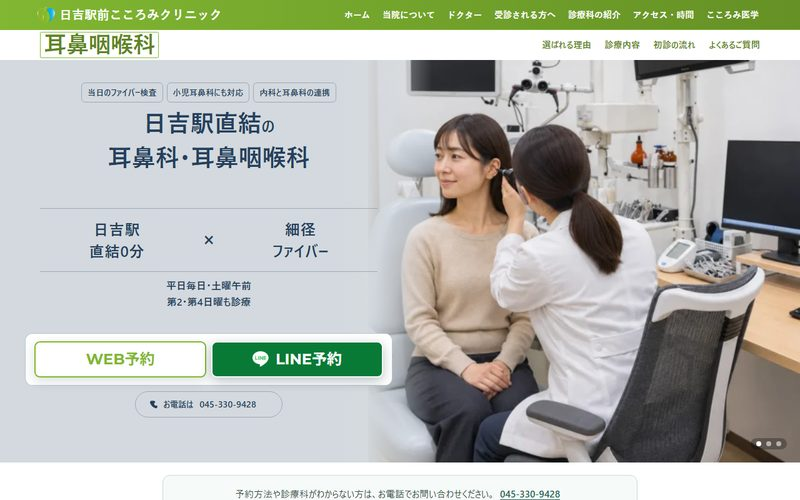
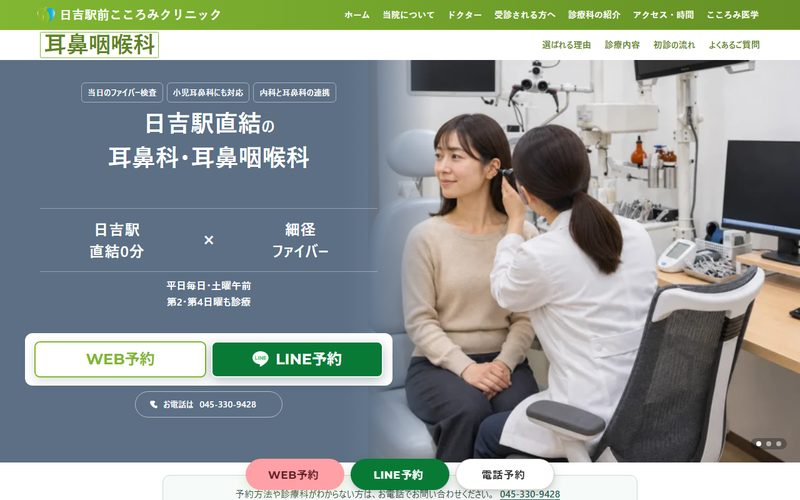
fix: うすいグレー・うすいネイビーをグレー・ネイビーより少しうすい色に（v0.14.0）
6 うすいグレー #EDEDEE → #9EA2A5（4のグレーを白で36%薄く・文字は濃いグレー #2B3036）
7 うすいネイビー #D3D9DE → #5C6F85（5のネイビーを白で25%薄く・文字は白）
読み込み版番号は ?v=0.14.0 に。

diff --git a/fv-patterns/index.html b/fv-patterns/index.html
@@ -4,7 +4,7 @@
 <meta charset="utf-8">
 <meta name="viewport" content="width=device-width, initial-scale=1">
 <meta name="robots" content="noindex,nofollow">
-<meta name="version" content="0.13.0">
+<meta name="version" content="0.14.0">
 <title>日吉 最初の画面の背景7案</title>
 <style>
 :root{--bg:#faf8f6;--card:#fff;--ink:#1f1d1b;--sub:#625b55;--line:#e6e0d9}
@@ -120,8 +120,8 @@ a:focus-visible{outline:3px solid #6a9bff;outline-offset:2px}
 </section>
 
 <section class="pat" aria-labelledby="p6-h">
-<div class="pat-h"><span class="no">6</span><h2 id="p6-h">うすいグレー（追加）</h2><span class="sw"><i style="background:#EDEDEE"></i><code>#EDEDEE</code>　文字 <i style="background:#33393F"></i><code>#33393F</code></span></div>
-<p>4のグレー <code>#686D72</code> を白で薄めた色（12%）です。文字は②で使った濃いグレー。色味のない、いちばん中立的な背景で、写真の色はそのまま出ます。</p>
+<div class="pat-h"><span class="no">6</span><h2 id="p6-h">うすいグレー（追加）</h2><span class="sw"><i style="background:#9EA2A5"></i><code>#9EA2A5</code>　文字 <i style="background:#2B3036"></i><code>#2B3036</code></span></div>
+<p>4のグレー <code>#686D72</code> より少しうすいグレーです（白で36%薄めた色）。写真の色はそのまま出ます。4より明るいグレーでは白い文字が読みにくくなる（読みやすさの基準に届かない）ため、文字は濃いグレー（案2で使った色）にしました。</p>
 <div class="shots">
 <a href="top/?p=6"><img src="img/p6-top.jpg" width="800" height="500" loading="lazy" alt="パターン6のトップの最初の画面"><span>トップ</span></a>
 <a href="general/?p=6"><img src="img/p6-general.jpg" width="800" height="500" loading="lazy" alt="パターン6の総合内科の最初の画面"><span>総合内科</span></a>
@@ -131,8 +131,8 @@ a:focus-visible{outline:3px solid #6a9bff;outline-offset:2px}
 </section>
 
 <section class="pat" aria-labelledby="p7-h">
-<div class="pat-h"><span class="no">7</span><h2 id="p7-h">うすいネイビー（追加）</h2><span class="sw"><i style="background:#D3D9DE"></i><code>#D3D9DE</code>　文字 <i style="background:#253F5C"></i><code>#253F5C</code></span></div>
-<p>5のネイビー <code>#253F5C</code> を白で薄めた色（20%）です。文字はネイビー。1のブルーグレーよりひと段階濃く、紺の気配がはっきり出ます。</p>
+<div class="pat-h"><span class="no">7</span><h2 id="p7-h">うすいネイビー（追加）</h2><span class="sw"><i style="background:#5C6F85"></i><code>#5C6F85</code>　文字 白</span></div>
+<p>5のネイビー <code>#253F5C</code> より少しうすいネイビーです（白で25%薄めた色）。文字は5と同じ白。5より軽く、やわらかい印象になります。</p>
 <div class="shots">
 <a href="top/?p=7"><img src="img/p7-top.jpg" width="800" height="500" loading="lazy" alt="パターン7のトップの最初の画面"><span>トップ</span></a>
 <a href="general/?p=7"><img src="img/p7-general.jpg" width="800" height="500" loading="lazy" alt="パターン7の総合内科の最初の画面"><span>総合内科</span></a>
@@ -145,7 +145,7 @@ a:focus-visible{outline:3px solid #6a9bff;outline-offset:2px}
 <h2 id="note-h">全パターン共通のこと</h2>
 <ul>
 <li><b>変えたのは「ヘッダー」と「最初の画面」だけ</b>です。それより下（お知らせ・選ばれる理由・お問い合わせ・フッターなど）は6月の色のままです</li>
-<li>最初の画面のボタン（WEB予約・LINE予約）、トップの診療科の札、写真の上の名札は6月のままです。ただし明るい背景（1〜3・6・7）では、白いWEB予約ボタンが背景に沈むので、その科の6月の色の枠を付けました。トップの札にも細い線を付けています</li>
+<li>最初の画面のボタン（WEB予約・LINE予約）、トップの診療科の札、写真の上の名札は6月のままです。ただし明るい背景（1〜3・6）では、白いWEB予約ボタンが背景に沈むので、その科の6月の色の枠を付けました。トップの札にも細い線を付けています</li>
 <li>心療内科・精神科のページは、最初の画面が「開始時期未定」のお知らせの下にあります（ページの作りがそうなっているため）</li>
 <li>写真の中の色は変わりません（4だけは写真の色味をおさえています）</li>
 </ul>

diff --git a/fv-patterns/checkups/index.html b/fv-patterns/checkups/index.html
@@ -3,10 +3,10 @@
 <html lang="ja">
   <head prefix="og: http://ogp.me/ns# fb: http://ogp.me/ns/fb# website: http://ogp.me/ns/website#">
 <meta name="robots" content="noindex,nofollow">
-<script>(function(){var h=document.documentElement,q=(location.search.match(/[?&]p=([1-7])\b/)||[])[1],s=null;try{s=localStorage.getItem("jFvPat")}catch(e){}var m=q||s||"1";if(!/^[1-7]$/.test(m))m="1";if(q){try{localStorage.setItem("jFvPat",m)}catch(e){}}h.classList.add("fvp","fv"+m,/^[12367]$/.test(m)?"fvL":"fvD")})();</script>
+<script>(function(){var h=document.documentElement,q=(location.search.match(/[?&]p=([1-7])\b/)||[])[1],s=null;try{s=localStorage.getItem("jFvPat")}catch(e){}var m=q||s||"1";if(!/^[1-7]$/.test(m))m="1";if(q){try{localStorage.setItem("jFvPat",m)}catch(e){}}h.classList.add("fvp","fv"+m,/^[1236]$/.test(m)?"fvL":"fvD")})();</script>
 
-<link rel="stylesheet" href="../assets/sample.css?v=0.13.0">
-<link rel="stylesheet" href="../assets/fvp.css?v=0.13.0">
+<link rel="stylesheet" href="../assets/sample.css?v=0.14.0">
+<link rel="stylesheet" href="../assets/fvp.css?v=0.14.0">
 
 
 
@@ -1674,7 +1674,7 @@ margin-block-end: 24px;
 var e="script#wp-emoji-settings",t=document.querySelector(e);if(!(t instanceof HTMLScriptElement))throw new Error("Element missing: "+e);const r=JSON.parse(t.text),s=(window._wpemojiSettings=r,"wpEmojiSettingsSupports"),o=["flag","emoji"];function i(e){try{var t={supportTests:e,timestamp:(new Date).valueOf()};sessionStorage.setItem(s,JSON.stringify(t))}catch(e){}}function c(e,t,n){e.clearRect(0,0,e.canvas.width,e.canvas.height),e.fillText(t,0,0);t=new Uint32Array(e.getImageData(0,0,e.canvas.width,e.canvas.height).data);e.clearRect(0,0,e.canvas.width,e.canvas.height),e.fillText(n,0,0);const r=new Uint32Array(e.getImageData(0,0,e.canvas.width,e.canvas.height).data);return t.every((e,t)=>e===r[t])}function p(e,t){e.clearRect(0,0,e.canvas.width,e.canvas.height),e.fillText(t,0,0);var n=e.getImageData(16,16,1,1);for(let e=0;e<n.data.length;e++)if(0!==n.data[e])return!1;return!0}function u(e,t,n,r){switch(t){case"flag":return n(e,"\ud83c\udff3\ufe0f\u200d\u26a7\ufe0f","\ud83c\udff3\ufe0f\u200b\u26a7\ufe0f")?!1:!n(e,"\ud83c\udde8\ud83c\uddf6","\ud83c\udde8\u200b\ud83c\uddf6")&&!n(e,"\ud83c\udff4\udb40\udc67\udb40\udc62\udb40\udc65\udb40\udc6e\udb40\udc67\udb40\udc7f","\ud83c\udff4\u200b\udb40\udc67\u200b\udb40\udc62\u200b\udb40\udc65\u200b\udb40\udc6e\u200b\udb40\udc67\u200b\udb40\udc7f");case"emoji":return!r(e,"\ud83e\u1fac8")}return!1}function f(e,t,n,r){let a;const s=(a="undefined"!=typeof WorkerGlobalScope&&self instanceof WorkerGlobalScope?new OffscreenCanvas(300,150):document.createElement("canvas")).getContext("2d",{willReadFrequently:!0}),o=(s.textBaseline="top",s.font="600 32px Arial",{});return e.forEach(e=>{o[e]=t(s,e,n,r)}),o}function a(e){var t=document.createElement("script");t.src=e,t.defer=!0,document.head.appendChild(t)}r.supports={everything:!0,everythingExceptFlag:!0},new Promise(t=>{let n=function(){try{var e=JSON.parse(sessionStorage.getItem(s));if("object"==typeof e&&"number"==typeof e.timestamp&&(new Date).valueOf()<e.timestamp+604800&&"object"==typeof e.supportTests)return e.supportTests}catch(e){}return null}();if(!n){if("undefined"!=typeof Worker&&"undefined"!=typeof OffscreenCanvas&&"undefined"!=typeof URL&&URL.createObjectURL&&"undefined"!=typeof Blob)try{var e="postMessage("+f.toString()+"("+[JSON.stringify(o),u.toString(),c.toString(),p.toString()].join(",")+"));",r=new Blob([e],{type:"text/javascript"});const a=new Worker(URL.createObjectURL(r),{name:"wpTestEmojiSupports"});return void(a.onmessage=e=>{i(n=e.data),a.terminate(),t(n)})}catch(e){}i(n=f(o,u,c,p))}t(n)}).then(e=>{for(const n in e)r.supports[n]=e[n],r.supports.everything=r.supports.everything&&r.supports[n],"flag"!==n&&(r.supports.everythingExceptFlag=r.supports.everythingExceptFlag&&r.supports[n]);var t;r.supports.everythingExceptFlag=r.supports.everythingExceptFlag&&!r.supports.flag,r.supports.everything||((t=r.source||{}).concatemoji?a(t.concatemoji):t.wpemoji&&t.twemoji&&(a(t.twemoji),a(t.wpemoji)))});
 //# sourceURL=https://hiyoshi-cocoromi-cl.jp/wp-includes/js/wp-emoji-loader.min.js
 </script>
-  <script src="../assets/fvp.js?v=0.13.0" data-page="checkups"></script>
+  <script src="../assets/fvp.js?v=0.14.0" data-page="checkups"></script>
 </body>
 </html>
 

diff --git a/fv-patterns/general/index.html b/fv-patterns/general/index.html
@@ -3,10 +3,10 @@
 <html lang="ja">
   <head prefix="og: http://ogp.me/ns# fb: http://ogp.me/ns/fb# website: http://ogp.me/ns/website#">
 <meta name="robots" content="noindex,nofollow">
-<script>(function(){var h=document.documentElement,q=(location.search.match(/[?&]p=([1-7])\b/)||[])[1],s=null;try{s=localStorage.getItem("jFvPat")}catch(e){}var m=q||s||"1";if(!/^[1-7]$/.test(m))m="1";if(q){try{localStorage.setItem("jFvPat",m)}catch(e){}}h.classList.add("fvp","fv"+m,/^[12367]$/.test(m)?"fvL":"fvD")})();</script>
+<script>(function(){var h=document.documentElement,q=(location.search.match(/[?&]p=([1-7])\b/)||[])[1],s=null;try{s=localStorage.getItem("jFvPat")}catch(e){}var m=q||s||"1";if(!/^[1-7]$/.test(m))m="1";if(q){try{localStorage.setItem("jFvPat",m)}catch(e){}}h.classList.add("fvp","fv"+m,/^[1236]$/.test(m)?"fvL":"fvD")})();</script>
 
-<link rel="stylesheet" href="../assets/sample.css?v=0.13.0">
-<link rel="stylesheet" href="../assets/fvp.css?v=0.13.0">
+<link rel="stylesheet" href="../assets/sample.css?v=0.14.0">
+<link rel="stylesheet" href="../assets/fvp.css?v=0.14.0">
 
 
 
@@ -1950,7 +1950,7 @@ margin-block-end: 24px;
 var e="script#wp-emoji-settings",t=document.querySelector(e);if(!(t instanceof HTMLScriptElement))throw new Error("Element missing: "+e);const r=JSON.parse(t.text),s=(window._wpemojiSettings=r,"wpEmojiSettingsSupports"),o=["flag","emoji"];function i(e){try{var t={supportTests:e,timestamp:(new Date).valueOf()};sessionStorage.setItem(s,JSON.stringify(t))}catch(e){}}function c(e,t,n){e.clearRect(0,0,e.canvas.width,e.canvas.height),e.fillText(t,0,0);t=new Uint32Array(e.getImageData(0,0,e.canvas.width,e.canvas.height).data);e.clearRect(0,0,e.canvas.width,e.canvas.height),e.fillText(n,0,0);const r=new Uint32Array(e.getImageData(0,0,e.canvas.width,e.canvas.height).data);return t.every((e,t)=>e===r[t])}function p(e,t){e.clearRect(0,0,e.canvas.width,e.canvas.height),e.fillText(t,0,0);var n=e.getImageData(16,16,1,1);for(let e=0;e<n.data.length;e++)if(0!==n.data[e])return!1;return!0}function u(e,t,n,r){switch(t){case"flag":return n(e,"\ud83c\udff3\ufe0f\u200d\u26a7\ufe0f","\ud83c\udff3\ufe0f\u200b\u26a7\ufe0f")?!1:!n(e,"\ud83c\udde8\ud83c\uddf6","\ud83c\udde8\u200b\ud83c\uddf6")&&!n(e,"\ud83c\udff4\udb40\udc67\udb40\udc62\udb40\udc65\udb40\udc6e\udb40\udc67\udb40\udc7f","\ud83c\udff4\u200b\udb40\udc67\u200b\udb40\udc62\u200b\udb40\udc65\u200b\udb40\udc6e\u200b\udb40\udc67\u200b\udb40\udc7f");case"emoji":return!r(e,"\ud83e\u1fac8")}return!1}function f(e,t,n,r){let a;const s=(a="undefined"!=typeof WorkerGlobalScope&&self instanceof WorkerGlobalScope?new OffscreenCanvas(300,150):document.createElement("canvas")).getContext("2d",{willReadFrequently:!0}),o=(s.textBaseline="top",s.font="600 32px Arial",{});return e.forEach(e=>{o[e]=t(s,e,n,r)}),o}function a(e){var t=document.createElement("script");t.src=e,t.defer=!0,document.head.appendChild(t)}r.supports={everything:!0,everythingExceptFlag:!0},new Promise(t=>{let n=function(){try{var e=JSON.parse(sessionStorage.getItem(s));if("object"==typeof e&&"number"==typeof e.timestamp&&(new Date).valueOf()<e.timestamp+604800&&"object"==typeof e.supportTests)return e.supportTests}catch(e){}return null}();if(!n){if("undefined"!=typeof Worker&&"undefined"!=typeof OffscreenCanvas&&"undefined"!=typeof URL&&URL.createObjectURL&&"undefined"!=typeof Blob)try{var e="postMessage("+f.toString()+"("+[JSON.stringify(o),u.toString(),c.toString(),p.toString()].join(",")+"));",r=new Blob([e],{type:"text/javascript"});const a=new Worker(URL.createObjectURL(r),{name:"wpTestEmojiSupports"});return void(a.onmessage=e=>{i(n=e.data),a.terminate(),t(n)})}catch(e){}i(n=f(o,u,c,p))}t(n)}).then(e=>{for(const n in e)r.supports[n]=e[n],r.supports.everything=r.supports.everything&&r.supports[n],"flag"!==n&&(r.supports.everythingExceptFlag=r.supports.everythingExceptFlag&&r.supports[n]);var t;r.supports.everythingExceptFlag=r.supports.everythingExceptFlag&&!r.supports.flag,r.supports.everything||((t=r.source||{}).concatemoji?a(t.concatemoji):t.wpemoji&&t.twemoji&&(a(t.twemoji),a(t.wpemoji)))});
 //# sourceURL=https://hiyoshi-cocoromi-cl.jp/wp-includes/js/wp-emoji-loader.min.js
 </script>
-  <script src="../assets/fvp.js?v=0.13.0" data-page="general"></script>
+  <script src="../assets/fvp.js?v=0.14.0" data-page="general"></script>
 </body>
 </html>
 

diff --git a/fv-patterns/gastro/index.html b/fv-patterns/gastro/index.html
@@ -3,10 +3,10 @@
 <html lang="ja">
   <head prefix="og: http://ogp.me/ns# fb: http://ogp.me/ns/fb# website: http://ogp.me/ns/website#">
 <meta name="robots" content="noindex,nofollow">
-<script>(function(){var h=document.documentElement,q=(location.search.match(/[?&]p=([1-7])\b/)||[])[1],s=null;try{s=localStorage.getItem("jFvPat")}catch(e){}var m=q||s||"1";if(!/^[1-7]$/.test(m))m="1";if(q){try{localStorage.setItem("jFvPat",m)}catch(e){}}h.classList.add("fvp","fv"+m,/^[12367]$/.test(m)?"fvL":"fvD")})();</script>
+<script>(function(){var h=document.documentElement,q=(location.search.match(/[?&]p=([1-7])\b/)||[])[1],s=null;try{s=localStorage.getItem("jFvPat")}catch(e){}var m=q||s||"1";if(!/^[1-7]$/.test(m))m="1";if(q){try{localStorage.setItem("jFvPat",m)}catch(e){}}h.classList.add("fvp","fv"+m,/^[1236]$/.test(m)?"fvL":"fvD")})();</script>
 
-<link rel="stylesheet" href="../assets/sample.css?v=0.13.0">
-<link rel="stylesheet" href="../assets/fvp.css?v=0.13.0">
+<link rel="stylesheet" href="../assets/sample.css?v=0.14.0">
+<link rel="stylesheet" href="../assets/fvp.css?v=0.14.0">
 
 
 
@@ -2147,7 +2147,7 @@ margin-block-end: 24px;
 var e="script#wp-emoji-settings",t=document.querySelector(e);if(!(t instanceof HTMLScriptElement))throw new Error("Element missing: "+e);const r=JSON.parse(t.text),s=(window._wpemojiSettings=r,"wpEmojiSettingsSupports"),o=["flag","emoji"];function i(e){try{var t={supportTests:e,timestamp:(new Date).valueOf()};sessionStorage.setItem(s,JSON.stringify(t))}catch(e){}}function c(e,t,n){e.clearRect(0,0,e.canvas.width,e.canvas.height),e.fillText(t,0,0);t=new Uint32Array(e.getImageData(0,0,e.canvas.width,e.canvas.height).data);e.clearRect(0,0,e.canvas.width,e.canvas.height),e.fillText(n,0,0);const r=new Uint32Array(e.getImageData(0,0,e.canvas.width,e.canvas.height).data);return t.every((e,t)=>e===r[t])}function p(e,t){e.clearRect(0,0,e.canvas.width,e.canvas.height),e.fillText(t,0,0);var n=e.getImageData(16,16,1,1);for(let e=0;e<n.data.length;e++)if(0!==n.data[e])return!1;return!0}function u(e,t,n,r){switch(t){case"flag":return n(e,"\ud83c\udff3\ufe0f\u200d\u26a7\ufe0f","\ud83c\udff3\ufe0f\u200b\u26a7\ufe0f")?!1:!n(e,"\ud83c\udde8\ud83c\uddf6","\ud83c\udde8\u200b\ud83c\uddf6")&&!n(e,"\ud83c\udff4\udb40\udc67\udb40\udc62\udb40\udc65\udb40\udc6e\udb40\udc67\udb40\udc7f","\ud83c\udff4\u200b\udb40\udc67\u200b\udb40\udc62\u200b\udb40\udc65\u200b\udb40\udc6e\u200b\udb40\udc67\u200b\udb40\udc7f");case"emoji":return!r(e,"\ud83e\u1fac8")}return!1}function f(e,t,n,r){let a;const s=(a="undefined"!=typeof WorkerGlobalScope&&self instanceof WorkerGlobalScope?new OffscreenCanvas(300,150):document.createElement("canvas")).getContext("2d",{willReadFrequently:!0}),o=(s.textBaseline="top",s.font="600 32px Arial",{});return e.forEach(e=>{o[e]=t(s,e,n,r)}),o}function a(e){var t=document.createElement("script");t.src=e,t.defer=!0,document.head.appendChild(t)}r.supports={everything:!0,everythingExceptFlag:!0},new Promise(t=>{let n=function(){try{var e=JSON.parse(sessionStorage.getItem(s));if("object"==typeof e&&"number"==typeof e.timestamp&&(new Date).valueOf()<e.timestamp+604800&&"object"==typeof e.supportTests)return e.supportTests}catch(e){}return null}();if(!n){if("undefined"!=typeof Worker&&"undefined"!=typeof OffscreenCanvas&&"undefined"!=typeof URL&&URL.createObjectURL&&"undefined"!=typeof Blob)try{var e="postMessage("+f.toString()+"("+[JSON.stringify(o),u.toString(),c.toString(),p.toString()].join(",")+"));",r=new Blob([e],{type:"text/javascript"});const a=new Worker(URL.createObjectURL(r),{name:"wpTestEmojiSupports"});return void(a.onmessage=e=>{i(n=e.data),a.terminate(),t(n)})}catch(e){}i(n=f(o,u,c,p))}t(n)}).then(e=>{for(const n in e)r.supports[n]=e[n],r.supports.everything=r.supports.everything&&r.supports[n],"flag"!==n&&(r.supports.everythingExceptFlag=r.supports.everythingExceptFlag&&r.supports[n]);var t;r.supports.everythingExceptFlag=r.supports.everythingExceptFlag&&!r.supports.flag,r.supports.everything||((t=r.source||{}).concatemoji?a(t.concatemoji):t.wpemoji&&t.twemoji&&(a(t.twemoji),a(t.wpemoji)))});
 //# sourceURL=https://hiyoshi-cocoromi-cl.jp/wp-includes/js/wp-emoji-loader.min.js
 </script>
-  <script src="../assets/fvp.js?v=0.13.0" data-page="gastro"></script>
+  <script src="../assets/fvp.js?v=0.14.0" data-page="gastro"></script>
 </body>
 </html>
 

diff --git a/fv-patterns/mental/index.html b/fv-patterns/mental/index.html
@@ -3,10 +3,10 @@
 <html lang="ja">
   <head prefix="og: http://ogp.me/ns# fb: http://ogp.me/ns/fb# website: http://ogp.me/ns/website#">
 <meta name="robots" content="noindex,nofollow">
-<script>(function(){var h=document.documentElement,q=(location.search.match(/[?&]p=([1-7])\b/)||[])[1],s=null;try{s=localStorage.getItem("jFvPat")}catch(e){}var m=q||s||"1";if(!/^[1-7]$/.test(m))m="1";if(q){try{localStorage.setItem("jFvPat",m)}catch(e){}}h.classList.add("fvp","fv"+m,/^[12367]$/.test(m)?"fvL":"fvD")})();</script>
+<script>(function(){var h=document.documentElement,q=(location.search.match(/[?&]p=([1-7])\b/)||[])[1],s=null;try{s=localStorage.getItem("jFvPat")}catch(e){}var m=q||s||"1";if(!/^[1-7]$/.test(m))m="1";if(q){try{localStorage.setItem("jFvPat",m)}catch(e){}}h.classList.add("fvp","fv"+m,/^[1236]$/.test(m)?"fvL":"fvD")})();</script>
 
-<link rel="stylesheet" href="../assets/sample.css?v=0.13.0">
-<link rel="stylesheet" href="../assets/fvp.css?v=0.13.0">
+<link rel="stylesheet" href="../assets/sample.css?v=0.14.0">
+<link rel="stylesheet" href="../assets/fvp.css?v=0.14.0">
 
 
 
@@ -1375,7 +1375,7 @@ margin-block-end: 24px;
 var e="script#wp-emoji-settings",t=document.querySelector(e);if(!(t instanceof HTMLScriptElement))throw new Error("Element missing: "+e);const r=JSON.parse(t.text),s=(window._wpemojiSettings=r,"wpEmojiSettingsSupports"),o=["flag","emoji"];function i(e){try{var t={supportTests:e,timestamp:(new Date).valueOf()};sessionStorage.setItem(s,JSON.stringify(t))}catch(e){}}function c(e,t,n){e.clearRect(0,0,e.canvas.width,e.canvas.height),e.fillText(t,0,0);t=new Uint32Array(e.getImageData(0,0,e.canvas.width,e.canvas.height).data);e.clearRect(0,0,e.canvas.width,e.canvas.height),e.fillText(n,0,0);const r=new Uint32Array(e.getImageData(0,0,e.canvas.width,e.canvas.height).data);return t.every((e,t)=>e===r[t])}function p(e,t){e.clearRect(0,0,e.canvas.width,e.canvas.height),e.fillText(t,0,0);var n=e.getImageData(16,16,1,1);for(let e=0;e<n.data.length;e++)if(0!==n.data[e])return!1;return!0}function u(e,t,n,r){switch(t){case"flag":return n(e,"\ud83c\udff3\ufe0f\u200d\u26a7\ufe0f","\ud83c\udff3\ufe0f\u200b\u26a7\ufe0f")?!1:!n(e,"\ud83c\udde8\ud83c\uddf6","\ud83c\udde8\u200b\ud83c\uddf6")&&!n(e,"\ud83c\udff4\udb40\udc67\udb40\udc62\udb40\udc65\udb40\udc6e\udb40\udc67\udb40\udc7f","\ud83c\udff4\u200b\udb40\udc67\u200b\udb40\udc62\u200b\udb40\udc65\u200b\udb40\udc6e\u200b\udb40\udc67\u200b\udb40\udc7f");case"emoji":return!r(e,"\ud83e\u1fac8")}return!1}function f(e,t,n,r){let a;const s=(a="undefined"!=typeof WorkerGlobalScope&&self instanceof WorkerGlobalScope?new OffscreenCanvas(300,150):document.createElement("canvas")).getContext("2d",{willReadFrequently:!0}),o=(s.textBaseline="top",s.font="600 32px Arial",{});return e.forEach(e=>{o[e]=t(s,e,n,r)}),o}function a(e){var t=document.createElement("script");t.src=e,t.defer=!0,document.head.appendChild(t)}r.supports={everything:!0,everythingExceptFlag:!0},new Promise(t=>{let n=function(){try{var e=JSON.parse(sessionStorage.getItem(s));if("object"==typeof e&&"number"==typeof e.timestamp&&(new Date).valueOf()<e.timestamp+604800&&"object"==typeof e.supportTests)return e.supportTests}catch(e){}return null}();if(!n){if("undefined"!=typeof Worker&&"undefined"!=typeof OffscreenCanvas&&"undefined"!=typeof URL&&URL.createObjectURL&&"undefined"!=typeof Blob)try{var e="postMessage("+f.toString()+"("+[JSON.stringify(o),u.toString(),c.toString(),p.toString()].join(",")+"));",r=new Blob([e],{type:"text/javascript"});const a=new Worker(URL.createObjectURL(r),{name:"wpTestEmojiSupports"});return void(a.onmessage=e=>{i(n=e.data),a.terminate(),t(n)})}catch(e){}i(n=f(o,u,c,p))}t(n)}).then(e=>{for(const n in e)r.supports[n]=e[n],r.supports.everything=r.supports.everything&&r.supports[n],"flag"!==n&&(r.supports.everythingExceptFlag=r.supports.everythingExceptFlag&&r.supports[n]);var t;r.supports.everythingExceptFlag=r.supports.everythingExceptFlag&&!r.supports.flag,r.supports.everything||((t=r.source||{}).concatemoji?a(t.concatemoji):t.wpemoji&&t.twemoji&&(a(t.twemoji),a(t.wpemoji)))});
 //# sourceURL=https://hiyoshi-cocoromi-cl.jp/wp-includes/js/wp-emoji-loader.min.js
 </script>
-  <script src="../assets/fvp.js?v=0.13.0" data-page="mental"></script>
+  <script src="../assets/fvp.js?v=0.14.0" data-page="mental"></script>
 </body>
 </html>
 

diff --git a/fv-patterns/fever/index.html b/fv-patterns/fever/index.html
@@ -2,10 +2,10 @@
 <html lang="ja">
   <head prefix="og: http://ogp.me/ns# fb: http://ogp.me/ns/fb# website: http://ogp.me/ns/website#">
 <meta name="robots" content="noindex,nofollow">
-<script>(function(){var h=document.documentElement,q=(location.search.match(/[?&]p=([1-7])\b/)||[])[1],s=null;try{s=localStorage.getItem("jFvPat")}catch(e){}var m=q||s||"1";if(!/^[1-7]$/.test(m))m="1";if(q){try{localStorage.setItem("jFvPat",m)}catch(e){}}h.classList.add("fvp","fv"+m,/^[12367]$/.test(m)?"fvL":"fvD")})();</script>
+<script>(function(){var h=document.documentElement,q=(location.search.match(/[?&]p=([1-7])\b/)||[])[1],s=null;try{s=localStorage.getItem("jFvPat")}catch(e){}var m=q||s||"1";if(!/^[1-7]$/.test(m))m="1";if(q){try{localStorage.setItem("jFvPat",m)}catch(e){}}h.classList.add("fvp","fv"+m,/^[1236]$/.test(m)?"fvL":"fvD")})();</script>
 
-<link rel="stylesheet" href="../assets/sample.css?v=0.13.0">
-<link rel="stylesheet" href="../assets/fvp.css?v=0.13.0">
+<link rel="stylesheet" href="../assets/sample.css?v=0.14.0">
+<link rel="stylesheet" href="../assets/fvp.css?v=0.14.0">
 
 
 
@@ -1501,7 +1501,7 @@ margin-block-end: 24px;
 var e="script#wp-emoji-settings",t=document.querySelector(e);if(!(t instanceof HTMLScriptElement))throw new Error("Element missing: "+e);const r=JSON.parse(t.text),s=(window._wpemojiSettings=r,"wpEmojiSettingsSupports"),o=["flag","emoji"];function i(e){try{var t={supportTests:e,timestamp:(new Date).valueOf()};sessionStorage.setItem(s,JSON.stringify(t))}catch(e){}}function c(e,t,n){e.clearRect(0,0,e.canvas.width,e.canvas.height),e.fillText(t,0,0);t=new Uint32Array(e.getImageData(0,0,e.canvas.width,e.canvas.height).data);e.clearRect(0,0,e.canvas.width,e.canvas.height),e.fillText(n,0,0);const r=new Uint32Array(e.getImageData(0,0,e.canvas.width,e.canvas.height).data);return t.every((e,t)=>e===r[t])}function p(e,t){e.clearRect(0,0,e.canvas.width,e.canvas.height),e.fillText(t,0,0);var n=e.getImageData(16,16,1,1);for(let e=0;e<n.data.length;e++)if(0!==n.data[e])return!1;return!0}function u(e,t,n,r){switch(t){case"flag":return n(e,"\ud83c\udff3\ufe0f\u200d\u26a7\ufe0f","\ud83c\udff3\ufe0f\u200b\u26a7\ufe0f")?!1:!n(e,"\ud83c\udde8\ud83c\uddf6","\ud83c\udde8\u200b\ud83c\uddf6")&&!n(e,"\ud83c\udff4\udb40\udc67\udb40\udc62\udb40\udc65\udb40\udc6e\udb40\udc67\udb40\udc7f","\ud83c\udff4\u200b\udb40\udc67\u200b\udb40\udc62\u200b\udb40\udc65\u200b\udb40\udc6e\u200b\udb40\udc67\u200b\udb40\udc7f");case"emoji":return!r(e,"\ud83e\u1fac8")}return!1}function f(e,t,n,r){let a;const s=(a="undefined"!=typeof WorkerGlobalScope&&self instanceof WorkerGlobalScope?new OffscreenCanvas(300,150):document.createElement("canvas")).getContext("2d",{willReadFrequently:!0}),o=(s.textBaseline="top",s.font="600 32px Arial",{});return e.forEach(e=>{o[e]=t(s,e,n,r)}),o}function a(e){var t=document.createElement("script");t.src=e,t.defer=!0,document.head.appendChild(t)}r.supports={everything:!0,everythingExceptFlag:!0},new Promise(t=>{let n=function(){try{var e=JSON.parse(sessionStorage.getItem(s));if("object"==typeof e&&"number"==typeof e.timestamp&&(new Date).valueOf()<e.timestamp+604800&&"object"==typeof e.supportTests)return e.supportTests}catch(e){}return null}();if(!n){if("undefined"!=typeof Worker&&"undefined"!=typeof OffscreenCanvas&&"undefined"!=typeof URL&&URL.createObjectURL&&"undefined"!=typeof Blob)try{var e="postMessage("+f.toString()+"("+[JSON.stringify(o),u.toString(),c.toString(),p.toString()].join(",")+"));",r=new Blob([e],{type:"text/javascript"});const a=new Worker(URL.createObjectURL(r),{name:"wpTestEmojiSupports"});return void(a.onmessage=e=>{i(n=e.data),a.terminate(),t(n)})}catch(e){}i(n=f(o,u,c,p))}t(n)}).then(e=>{for(const n in e)r.supports[n]=e[n],r.supports.everything=r.supports.everything&&r.supports[n],"flag"!==n&&(r.supports.everythingExceptFlag=r.supports.everythingExceptFlag&&r.supports[n]);var t;r.supports.everythingExceptFlag=r.supports.everythingExceptFlag&&!r.supports.flag,r.supports.everything||((t=r.source||{}).concatemoji?a(t.concatemoji):t.wpemoji&&t.twemoji&&(a(t.twemoji),a(t.wpemoji)))});
 //# sourceURL=https://hiyoshi-cocoromi-cl.jp/wp-includes/js/wp-emoji-loader.min.js
 </script>
-  <script src="../assets/fvp.js?v=0.13.0" data-page="fever"></script>
+  <script src="../assets/fvp.js?v=0.14.0" data-page="fever"></script>
 </body>
 </html>
 

diff --git a/fv-patterns/derm/index.html b/fv-patterns/derm/index.html
@@ -3,10 +3,10 @@
 <html lang="ja">
   <head prefix="og: http://ogp.me/ns# fb: http://ogp.me/ns/fb# website: http://ogp.me/ns/website#">
 <meta name="robots" content="noindex,nofollow">
-<script>(function(){var h=document.documentElement,q=(location.search.match(/[?&]p=([1-7])\b/)||[])[1],s=null;try{s=localStorage.getItem("jFvPat")}catch(e){}var m=q||s||"1";if(!/^[1-7]$/.test(m))m="1";if(q){try{localStorage.setItem("jFvPat",m)}catch(e){}}h.classList.add("fvp","fv"+m,/^[12367]$/.test(m)?"fvL":"fvD")})();</script>
+<script>(function(){var h=document.documentElement,q=(location.search.match(/[?&]p=([1-7])\b/)||[])[1],s=null;try{s=localStorage.getItem("jFvPat")}catch(e){}var m=q||s||"1";if(!/^[1-7]$/.test(m))m="1";if(q){try{localStorage.setItem("jFvPat",m)}catch(e){}}h.classList.add("fvp","fv"+m,/^[1236]$/.test(m)?"fvL":"fvD")})();</script>
 
-<link rel="stylesheet" href="../assets/sample.css?v=0.13.0">
-<link rel="stylesheet" href="../assets/fvp.css?v=0.13.0">
+<link rel="stylesheet" href="../assets/sample.css?v=0.14.0">
+<link rel="stylesheet" href="../assets/fvp.css?v=0.14.0">
 
 
 
@@ -1524,7 +1524,7 @@ margin-block-end: 24px;
 var e="script#wp-emoji-settings",t=document.querySelector(e);if(!(t instanceof HTMLScriptElement))throw new Error("Element missing: "+e);const r=JSON.parse(t.text),s=(window._wpemojiSettings=r,"wpEmojiSettingsSupports"),o=["flag","emoji"];function i(e){try{var t={supportTests:e,timestamp:(new Date).valueOf()};sessionStorage.setItem(s,JSON.stringify(t))}catch(e){}}function c(e,t,n){e.clearRect(0,0,e.canvas.width,e.canvas.height),e.fillText(t,0,0);t=new Uint32Array(e.getImageData(0,0,e.canvas.width,e.canvas.height).data);e.clearRect(0,0,e.canvas.width,e.canvas.height),e.fillText(n,0,0);const r=new Uint32Array(e.getImageData(0,0,e.canvas.width,e.canvas.height).data);return t.every((e,t)=>e===r[t])}function p(e,t){e.clearRect(0,0,e.canvas.width,e.canvas.height),e.fillText(t,0,0);var n=e.getImageData(16,16,1,1);for(let e=0;e<n.data.length;e++)if(0!==n.data[e])return!1;return!0}function u(e,t,n,r){switch(t){case"flag":return n(e,"\ud83c\udff3\ufe0f\u200d\u26a7\ufe0f","\ud83c\udff3\ufe0f\u200b\u26a7\ufe0f")?!1:!n(e,"\ud83c\udde8\ud83c\uddf6","\ud83c\udde8\u200b\ud83c\uddf6")&&!n(e,"\ud83c\udff4\udb40\udc67\udb40\udc62\udb40\udc65\udb40\udc6e\udb40\udc67\udb40\udc7f","\ud83c\udff4\u200b\udb40\udc67\u200b\udb40\udc62\u200b\udb40\udc65\u200b\udb40\udc6e\u200b\udb40\udc67\u200b\udb40\udc7f");case"emoji":return!r(e,"\ud83e\u1fac8")}return!1}function f(e,t,n,r){let a;const s=(a="undefined"!=typeof WorkerGlobalScope&&self instanceof WorkerGlobalScope?new OffscreenCanvas(300,150):document.createElement("canvas")).getContext("2d",{willReadFrequently:!0}),o=(s.textBaseline="top",s.font="600 32px Arial",{});return e.forEach(e=>{o[e]=t(s,e,n,r)}),o}function a(e){var t=document.createElement("script");t.src=e,t.defer=!0,document.head.appendChild(t)}r.supports={everything:!0,everythingExceptFlag:!0},new Promise(t=>{let n=function(){try{var e=JSON.parse(sessionStorage.getItem(s));if("object"==typeof e&&"number"==typeof e.timestamp&&(new Date).valueOf()<e.timestamp+604800&&"object"==typeof e.supportTests)return e.supportTests}catch(e){}return null}();if(!n){if("undefined"!=typeof Worker&&"undefined"!=typeof OffscreenCanvas&&"undefined"!=typeof URL&&URL.createObjectURL&&"undefined"!=typeof Blob)try{var e="postMessage("+f.toString()+"("+[JSON.stringify(o),u.toString(),c.toString(),p.toString()].join(",")+"));",r=new Blob([e],{type:"text/javascript"});const a=new Worker(URL.createObjectURL(r),{name:"wpTestEmojiSupports"});return void(a.onmessage=e=>{i(n=e.data),a.terminate(),t(n)})}catch(e){}i(n=f(o,u,c,p))}t(n)}).then(e=>{for(const n in e)r.supports[n]=e[n],r.supports.everything=r.supports.everything&&r.supports[n],"flag"!==n&&(r.supports.everythingExceptFlag=r.supports.everythingExceptFlag&&r.supports[n]);var t;r.supports.everythingExceptFlag=r.supports.everythingExceptFlag&&!r.supports.flag,r.supports.everything||((t=r.source||{}).concatemoji?a(t.concatemoji):t.wpemoji&&t.twemoji&&(a(t.twemoji),a(t.wpemoji)))});
 //# sourceURL=https://hiyoshi-cocoromi-cl.jp/wp-includes/js/wp-emoji-loader.min.js
 </script>
-  <script src="../assets/fvp.js?v=0.13.0" data-page="derm"></script>
+  <script src="../assets/fvp.js?v=0.14.0" data-page="derm"></script>
 </body>
 </html>
 

diff --git a/fv-patterns/ent/index.html b/fv-patterns/ent/index.html
@@ -3,10 +3,10 @@
 <html lang="ja">
   <head prefix="og: http://ogp.me/ns# fb: http://ogp.me/ns/fb# website: http://ogp.me/ns/website#">
 <meta name="robots" content="noindex,nofollow">
-<script>(function(){var h=document.documentElement,q=(location.search.match(/[?&]p=([1-7])\b/)||[])[1],s=null;try{s=localStorage.getItem("jFvPat")}catch(e){}var m=q||s||"1";if(!/^[1-7]$/.test(m))m="1";if(q){try{localStorage.setItem("jFvPat",m)}catch(e){}}h.classList.add("fvp","fv"+m,/^[12367]$/.test(m)?"fvL":"fvD")})();</script>
+<script>(function(){var h=document.documentElement,q=(location.search.match(/[?&]p=([1-7])\b/)||[])[1],s=null;try{s=localStorage.getItem("jFvPat")}catch(e){}var m=q||s||"1";if(!/^[1-7]$/.test(m))m="1";if(q){try{localStorage.setItem("jFvPat",m)}catch(e){}}h.classList.add("fvp","fv"+m,/^[1236]$/.test(m)?"fvL":"fvD")})();</script>
 
-<link rel="stylesheet" href="../assets/sample.css?v=0.13.0">
-<link rel="stylesheet" href="../assets/fvp.css?v=0.13.0">
+<link rel="stylesheet" href="../assets/sample.css?v=0.14.0">
+<link rel="stylesheet" href="../assets/fvp.css?v=0.14.0">
 
 
 
@@ -1486,7 +1486,7 @@ margin-block-end: 24px;
 var e="script#wp-emoji-settings",t=document.querySelector(e);if(!(t instanceof HTMLScriptElement))throw new Error("Element missing: "+e);const r=JSON.parse(t.text),s=(window._wpemojiSettings=r,"wpEmojiSettingsSupports"),o=["flag","emoji"];function i(e){try{var t={supportTests:e,timestamp:(new Date).valueOf()};sessionStorage.setItem(s,JSON.stringify(t))}catch(e){}}function c(e,t,n){e.clearRect(0,0,e.canvas.width,e.canvas.height),e.fillText(t,0,0);t=new Uint32Array(e.getImageData(0,0,e.canvas.width,e.canvas.height).data);e.clearRect(0,0,e.canvas.width,e.canvas.height),e.fillText(n,0,0);const r=new Uint32Array(e.getImageData(0,0,e.canvas.width,e.canvas.height).data);return t.every((e,t)=>e===r[t])}function p(e,t){e.clearRect(0,0,e.canvas.width,e.canvas.height),e.fillText(t,0,0);var n=e.getImageData(16,16,1,1);for(let e=0;e<n.data.length;e++)if(0!==n.data[e])return!1;return!0}function u(e,t,n,r){switch(t){case"flag":return n(e,"\ud83c\udff3\ufe0f\u200d\u26a7\ufe0f","\ud83c\udff3\ufe0f\u200b\u26a7\ufe0f")?!1:!n(e,"\ud83c\udde8\ud83c\uddf6","\ud83c\udde8\u200b\ud83c\uddf6")&&!n(e,"\ud83c\udff4\udb40\udc67\udb40\udc62\udb40\udc65\udb40\udc6e\udb40\udc67\udb40\udc7f","\ud83c\udff4\u200b\udb40\udc67\u200b\udb40\udc62\u200b\udb40\udc65\u200b\udb40\udc6e\u200b\udb40\udc67\u200b\udb40\udc7f");case"emoji":return!r(e,"\ud83e\u1fac8")}return!1}function f(e,t,n,r){let a;const s=(a="undefined"!=typeof WorkerGlobalScope&&self instanceof WorkerGlobalScope?new OffscreenCanvas(300,150):document.createElement("canvas")).getContext("2d",{willReadFrequently:!0}),o=(s.textBaseline="top",s.font="600 32px Arial",{});return e.forEach(e=>{o[e]=t(s,e,n,r)}),o}function a(e){var t=document.createElement("script");t.src=e,t.defer=!0,document.head.appendChild(t)}r.supports={everything:!0,everythingExceptFlag:!0},new Promise(t=>{let n=function(){try{var e=JSON.parse(sessionStorage.getItem(s));if("object"==typeof e&&"number"==typeof e.timestamp&&(new Date).valueOf()<e.timestamp+604800&&"object"==typeof e.supportTests)return e.supportTests}catch(e){}return null}();if(!n){if("undefined"!=typeof Worker&&"undefined"!=typeof OffscreenCanvas&&"undefined"!=typeof URL&&URL.createObjectURL&&"undefined"!=typeof Blob)try{var e="postMessage("+f.toString()+"("+[JSON.stringify(o),u.toString(),c.toString(),p.toString()].join(",")+"));",r=new Blob([e],{type:"text/javascript"});const a=new Worker(URL.createObjectURL(r),{name:"wpTestEmojiSupports"});return void(a.onmessage=e=>{i(n=e.data),a.terminate(),t(n)})}catch(e){}i(n=f(o,u,c,p))}t(n)}).then(e=>{for(const n in e)r.supports[n]=e[n],r.supports.everything=r.supports.everything&&r.supports[n],"flag"!==n&&(r.supports.everythingExceptFlag=r.supports.everythingExceptFlag&&r.supports[n]);var t;r.supports.everythingExceptFlag=r.supports.everythingExceptFlag&&!r.supports.flag,r.supports.everything||((t=r.source||{}).concatemoji?a(t.concatemoji):t.wpemoji&&t.twemoji&&(a(t.twemoji),a(t.wpemoji)))});
 //# sourceURL=https://hiyoshi-cocoromi-cl.jp/wp-includes/js/wp-emoji-loader.min.js
 </script>
-  <script src="../assets/fvp.js?v=0.13.0" data-page="ent"></script>
+  <script src="../assets/fvp.js?v=0.14.0" data-page="ent"></script>
 </body>
 </html>
 

diff --git a/fv-patterns/assets/fvp.js b/fv-patterns/assets/fvp.js
@@ -1,5 +1,5 @@
-/* 最初の画面の背景7パターンの見本：パネル（パターンの切り替え＋ページ移動） v0.13.0（v0.12.0 は5パターン）
-   パターンは html の fv1〜fv7（と fvL＝明るい背景 1〜3・6・7 ／ fvD＝暗い背景 4・5）で切り替わる。<head> のスクリプトが ?p= か記憶（jFvPat）から最初の値を決める
+/* 最初の画面の背景7パターンの見本：パネル（パターンの切り替え＋ページ移動） v0.14.0（v0.12.0 は5パターン、v0.13.0 で6・7を追加、v0.14.0 で6・7の濃さを変更）
+   パターンは html の fv1〜fv7（と fvL＝明るい背景 1〜3・6 ／ fvD＝暗い背景 4・5・7）で切り替わる。<head> のスクリプトが ?p= か記憶（jFvPat）から最初の値を決める
    ?shot=1 のときはパネルを出さない（説明ページの縮小画像を撮るため） */
 (function () {
   if (/[?&]shot=1\b/.test(location.search)) return;
@@ -13,13 +13,13 @@
     ['3', 'おまかせ', '#FFFFFF', 'おまかせ：白＋各科の濃い色の文字'],
     ['4', 'グレー', '#686D72', 'グレー＋写真の色味をおさえる'],
     ['5', 'ネイビー', '#253F5C', 'ネイビー（②の色）'],
-    ['6', 'うすいグレー', '#EDEDEE', 'うすいグレー（④のグレーを薄く）'],
-    ['7', 'うすいネイビー', '#D3D9DE', 'うすいネイビー（⑤のネイビーを薄く）']
+    ['6', 'うすいグレー', '#9EA2A5', 'うすいグレー（④のグレーより少しうすく）'],
+    ['7', 'うすいネイビー', '#5C6F85', 'うすいネイビー（⑤のネイビーより少しうすく）']
   ];
   var h = document.documentElement;
   function get(k) { try { return localStorage.getItem(k); } catch (e) { return null; } }
   function set(k, v) { try { localStorage.setItem(k, v); } catch (e) {} }
-  function light(m) { return /^[12367]$/.test(m); }
+  function light(m) { return /^[1236]$/.test(m); }
   function cur() { for (var i = 1; i <= 7; i++) if (h.classList.contains('fv' + i)) return String(i); return '1'; }
 
   var box = document.createElement('div');

diff --git a/fv-patterns/top/index.html b/fv-patterns/top/index.html
@@ -2,10 +2,10 @@
 <html lang="ja">
 <head prefix="og: http://ogp.me/ns# fb: http://ogp.me/ns/fb# website: http://ogp.me/ns/website#">
 <meta name="robots" content="noindex,nofollow">
-<script>(function(){var h=document.documentElement,q=(location.search.match(/[?&]p=([1-7])\b/)||[])[1],s=null;try{s=localStorage.getItem("jFvPat")}catch(e){}var m=q||s||"1";if(!/^[1-7]$/.test(m))m="1";if(q){try{localStorage.setItem("jFvPat",m)}catch(e){}}h.classList.add("fvp","fv"+m,/^[12367]$/.test(m)?"fvL":"fvD")})();</script>
+<script>(function(){var h=document.documentElement,q=(location.search.match(/[?&]p=([1-7])\b/)||[])[1],s=null;try{s=localStorage.getItem("jFvPat")}catch(e){}var m=q||s||"1";if(!/^[1-7]$/.test(m))m="1";if(q){try{localStorage.setItem("jFvPat",m)}catch(e){}}h.classList.add("fvp","fv"+m,/^[1236]$/.test(m)?"fvL":"fvD")})();</script>
 
-<link rel="stylesheet" href="../assets/sample.css?v=0.13.0">
-<link rel="stylesheet" href="../assets/fvp.css?v=0.13.0">
+<link rel="stylesheet" href="../assets/sample.css?v=0.14.0">
+<link rel="stylesheet" href="../assets/fvp.css?v=0.14.0">
 
 
 
@@ -1630,7 +1630,7 @@ body>main#main-content{padding:50px 0}
         </symbol>
       </defs>
     </svg>
-<script src="../assets/fvp.js?v=0.13.0" data-page="top"></script>
+<script src="../assets/fvp.js?v=0.14.0" data-page="top"></script>
 </body>
 </html>
 
